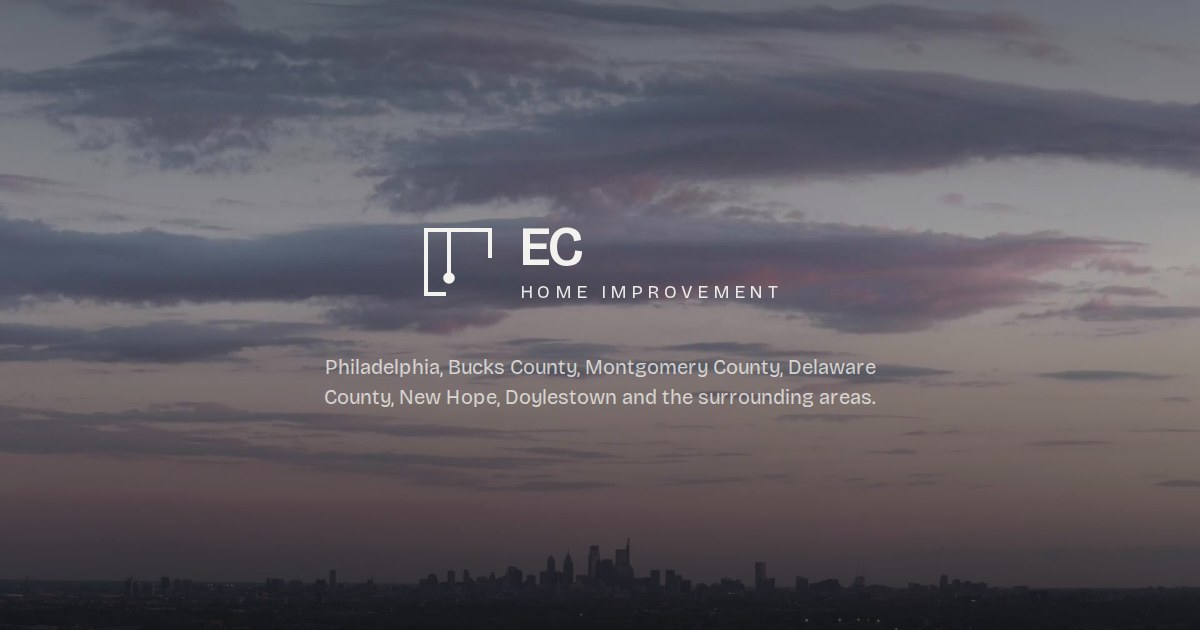
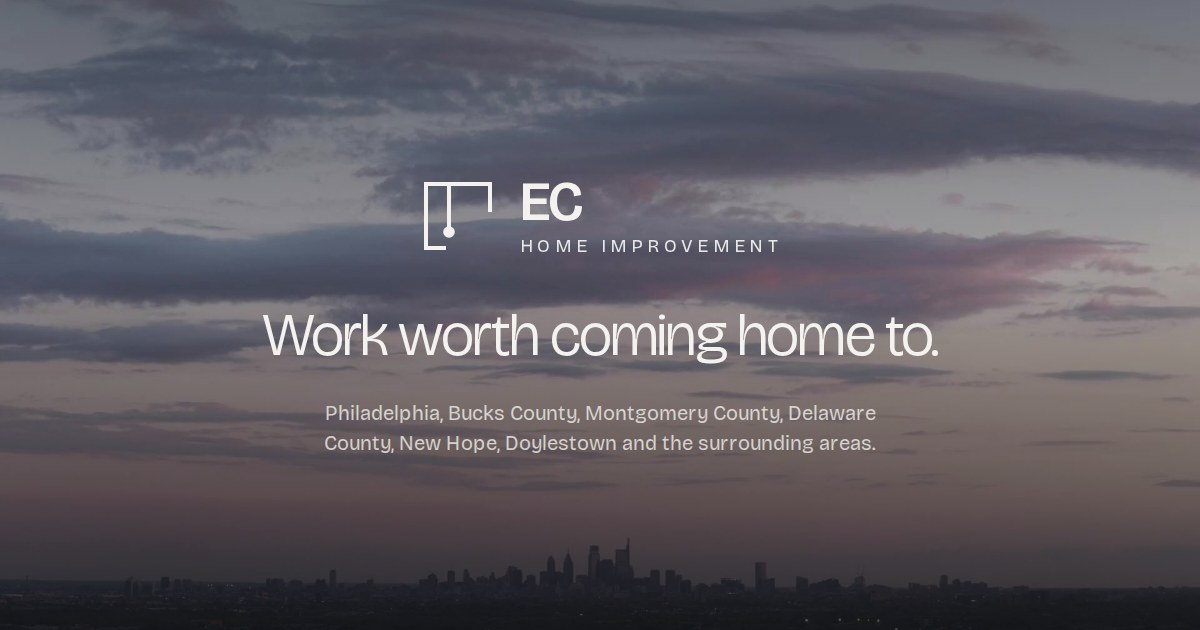
Put the hero line on the link preview
The preview and the page now open on the same sentence.

Claude-Session: https://claude.ai/code/session_018pkz8WaVy6P1M4X9JHYgZN

diff --git a/CLAUDE.md b/CLAUDE.md
@@ -301,10 +301,11 @@ which is the one thing that does not pick it up automatically (the QR is a commi
 
 - **`public/og.jpg`** is what a texted link looks like. Built by rendering an HTML template through
   headless Chromium so it uses the real Bricolage face and the real hero frame, rather than being
-  laid out by hand. It carries **the lockup and the service-area line, centred, and nothing else** —
-  a first pass had a headline and the phone number on it too and Eric cut both. Variants live in
-  `scratchpad/og/og-a.html` (shipped) and `og-b.html` (same plus "Work worth coming home to.").
-  Regenerate with `shoot2.js`; keep it to two elements.
+  laid out by hand. Three things, centred: **the lockup, "Work worth coming home to.", and the
+  service-area line.** The preview and the page now open on the same sentence. An earlier pass also
+  carried the phone number — Eric cut that, and it stays off. Variants are in
+  `scratchpad/og/og-b.html` (shipped) and `og-a.html` (without the line); regenerate with
+  `shoot2.js`.
 - **`app/icon.svg`** is the mark on ink, picked up automatically by Next as the favicon.
 - **Structured data** (`app/components/StructuredData.tsx`) states the trade and every area served,
   once, in the form Google expects. It is not a substitute for a Google Business Profile — for a
